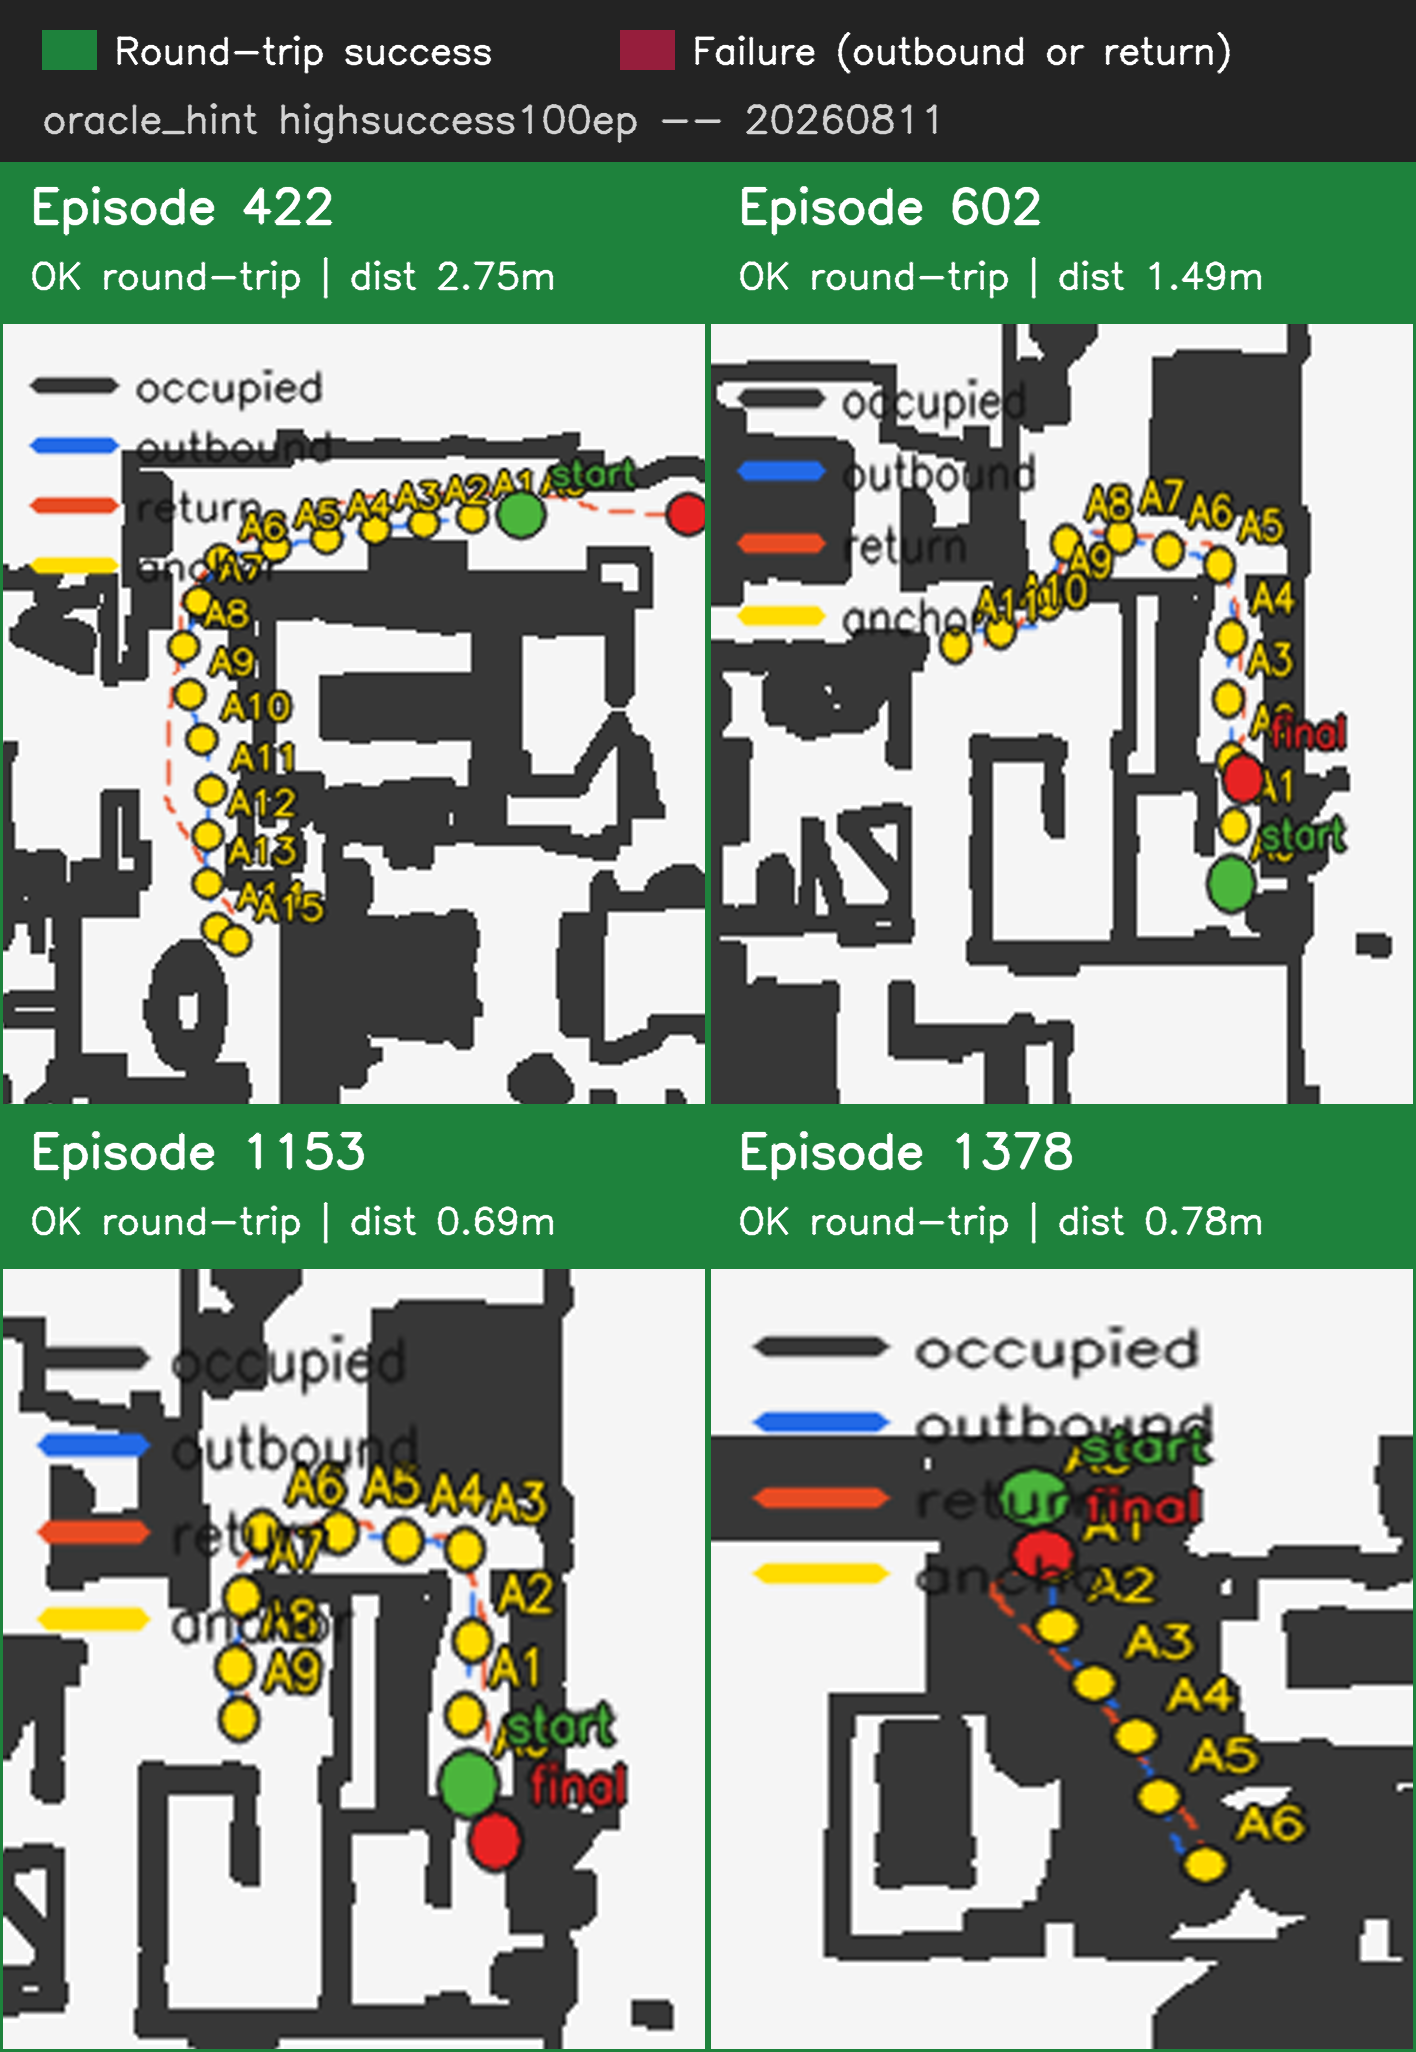
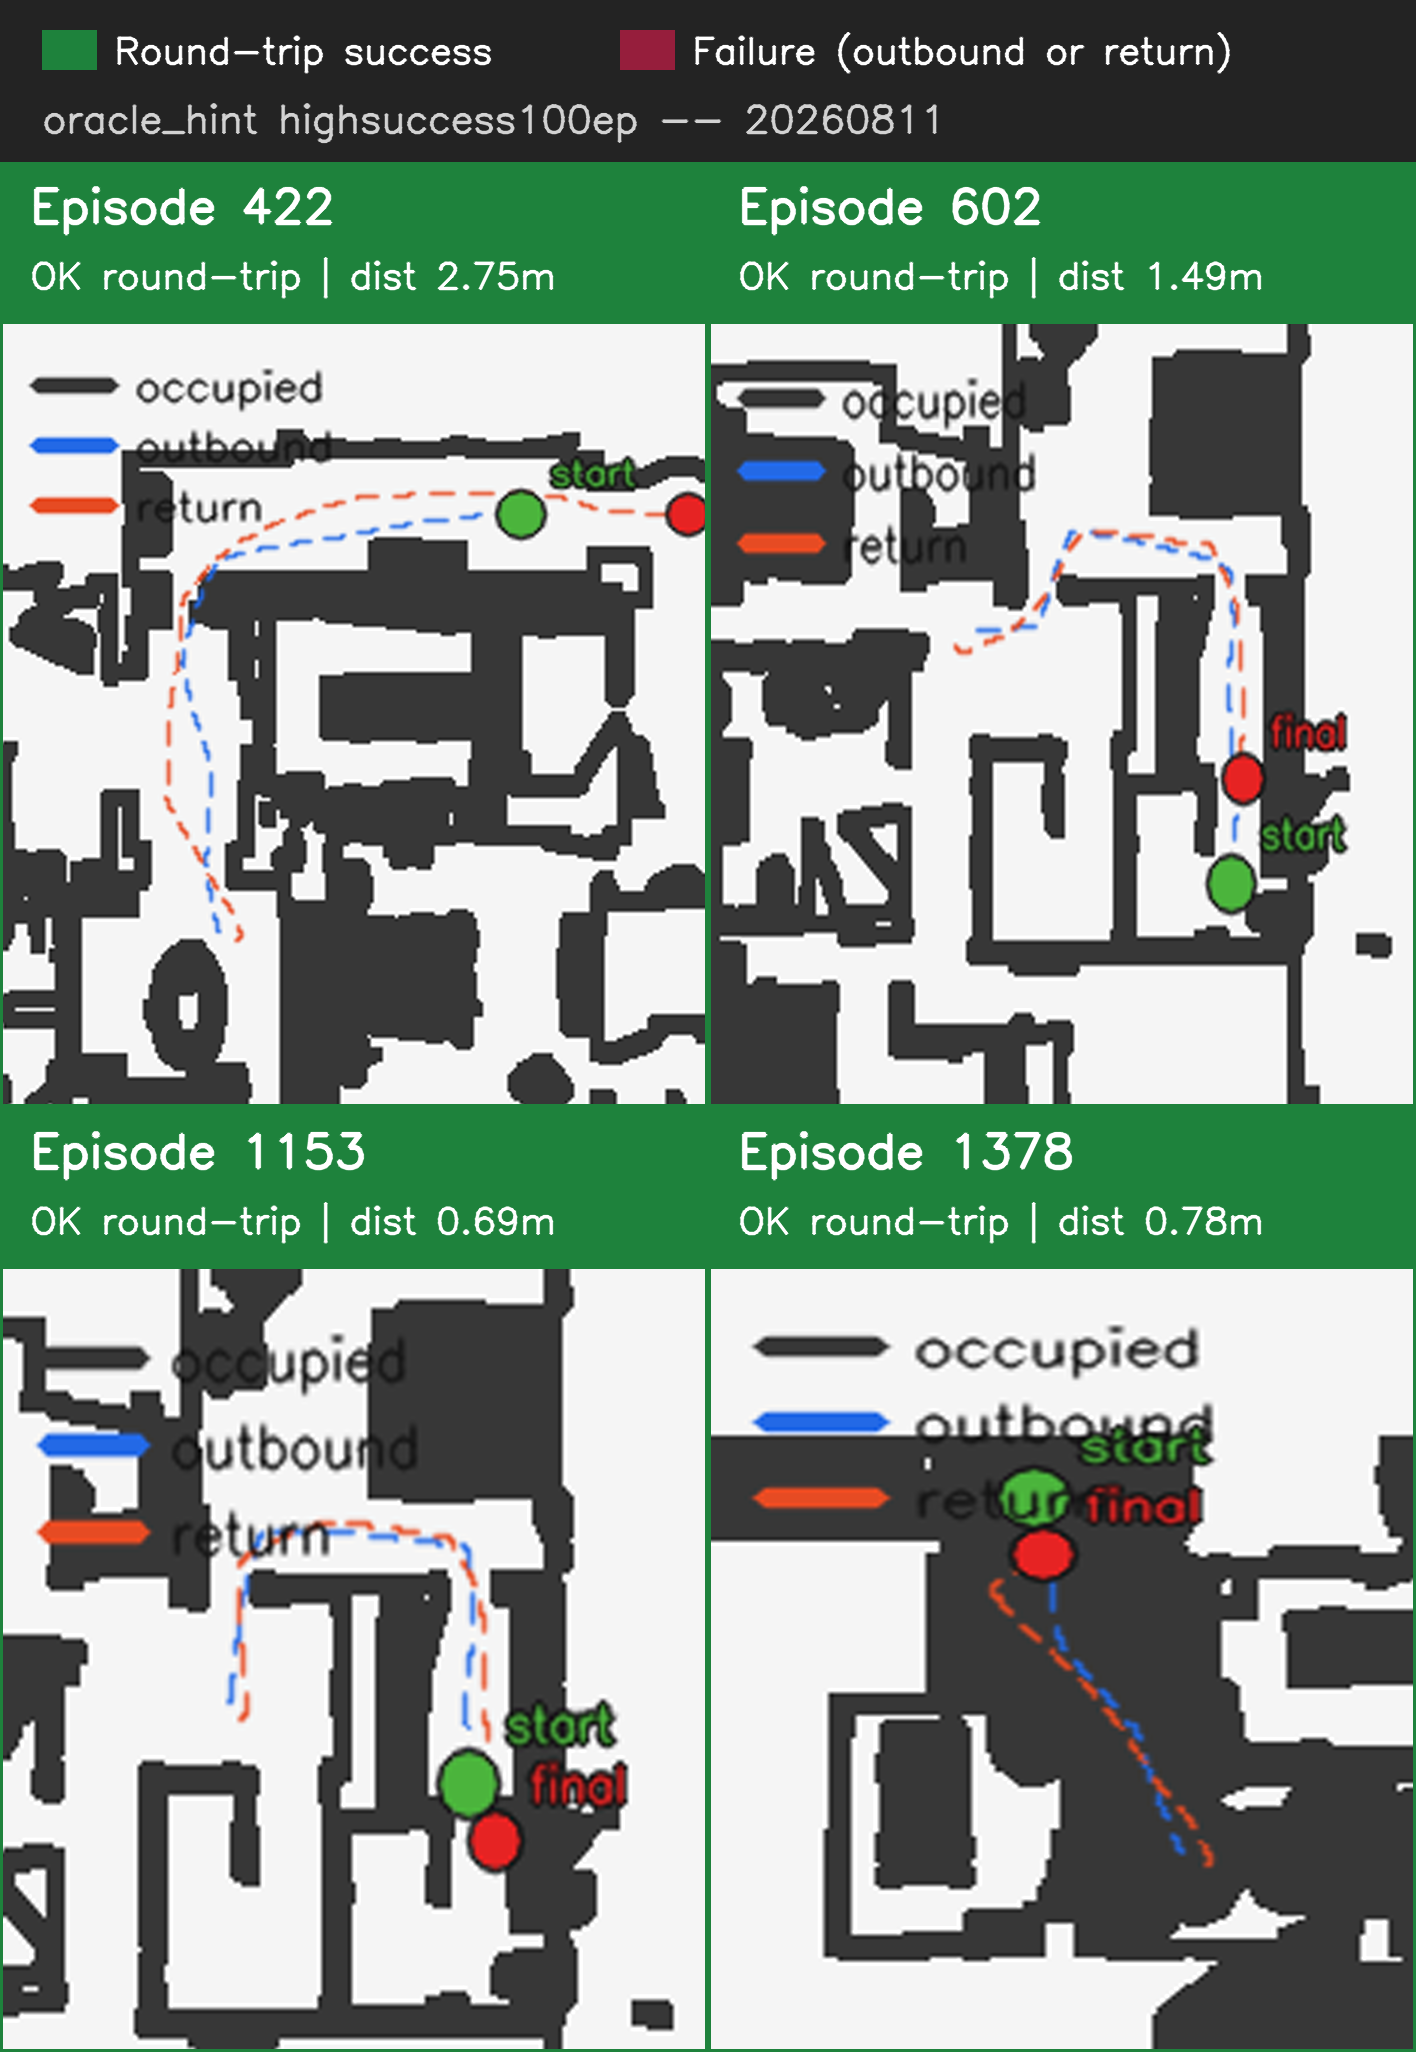
Drop anchor markers from the 4-episode route-map grids too
Yellow A1/A2/... route-memory anchor markers cluttered the oracle_hint
panels and weren't needed to read baseline-vs-oracle_hint success/failure
off the maps -- outbound/return lines plus start/final/goal markers are
enough. Legend updated to match (occupied/outbound/return only).

diff --git a/investigations/数据补全/code/plot_baseline_vs_oracle_4ep_grid.py b/investigations/数据补全/code/plot_baseline_vs_oracle_4ep_grid.py
@@ -38,8 +38,10 @@ from topdown_route_map import TopDownMap  # noqa: E402
 
 def render_route_overlay_no_return_order(topdown_map, trajectory_records, route_memory_summary, episode):
     """Same as topdown_route_map.render_route_overlay(), minus the magenta
-    numbered "return order" markers (_draw_return_timestamps) -- those often
-    sit directly on top of the orange return line and hide it."""
+    numbered "return order" markers (_draw_return_timestamps) and the yellow
+    A1/A2/... route-memory anchor markers -- both tended to clutter/hide the
+    orange return line, and the anchors aren't needed to read baseline-vs-
+    oracle_hint success/failure off these maps."""
     image = topdown_map.image.copy()
     meta = topdown_map.meta
 
@@ -58,14 +60,7 @@ def render_route_overlay_no_return_order(topdown_map, trajectory_records, route_
     ]
     tdm._dashed_polyline(image, outbound, meta, (230, 105, 35), thickness=1, dash_px=8.0, gap_px=5.0)
     tdm._dashed_polyline(image, ret, meta, (35, 75, 230), thickness=1, dash_px=8.0, gap_px=5.0)
-    # (deliberately no _draw_return_timestamps call here)
-
-    anchors = (route_memory_summary or {}).get("anchors") or []
-    for anchor in anchors:
-        xy = tdm._anchor_world_xy(anchor)
-        if xy is None:
-            continue
-        tdm._draw_marker(image, xy, meta, (0, 220, 255), f"A{int(anchor.get('index', 0))}", radius=4)
+    # (deliberately no _draw_return_timestamps call, and no anchor markers, here)
 
     start = episode.get("start_position")
     goal = (episode.get("reference_path") or [None])[-1]
@@ -83,7 +78,6 @@ def render_route_overlay_no_return_order(topdown_map, trajectory_records, route_
         ((55, 55, 55), "occupied"),
         ((230, 105, 35), "outbound"),
         ((35, 75, 230), "return"),
-        ((0, 220, 255), "anchor"),
     ]
     for idx, (color, label) in enumerate(legend):
         y = legend_y + idx * 20
